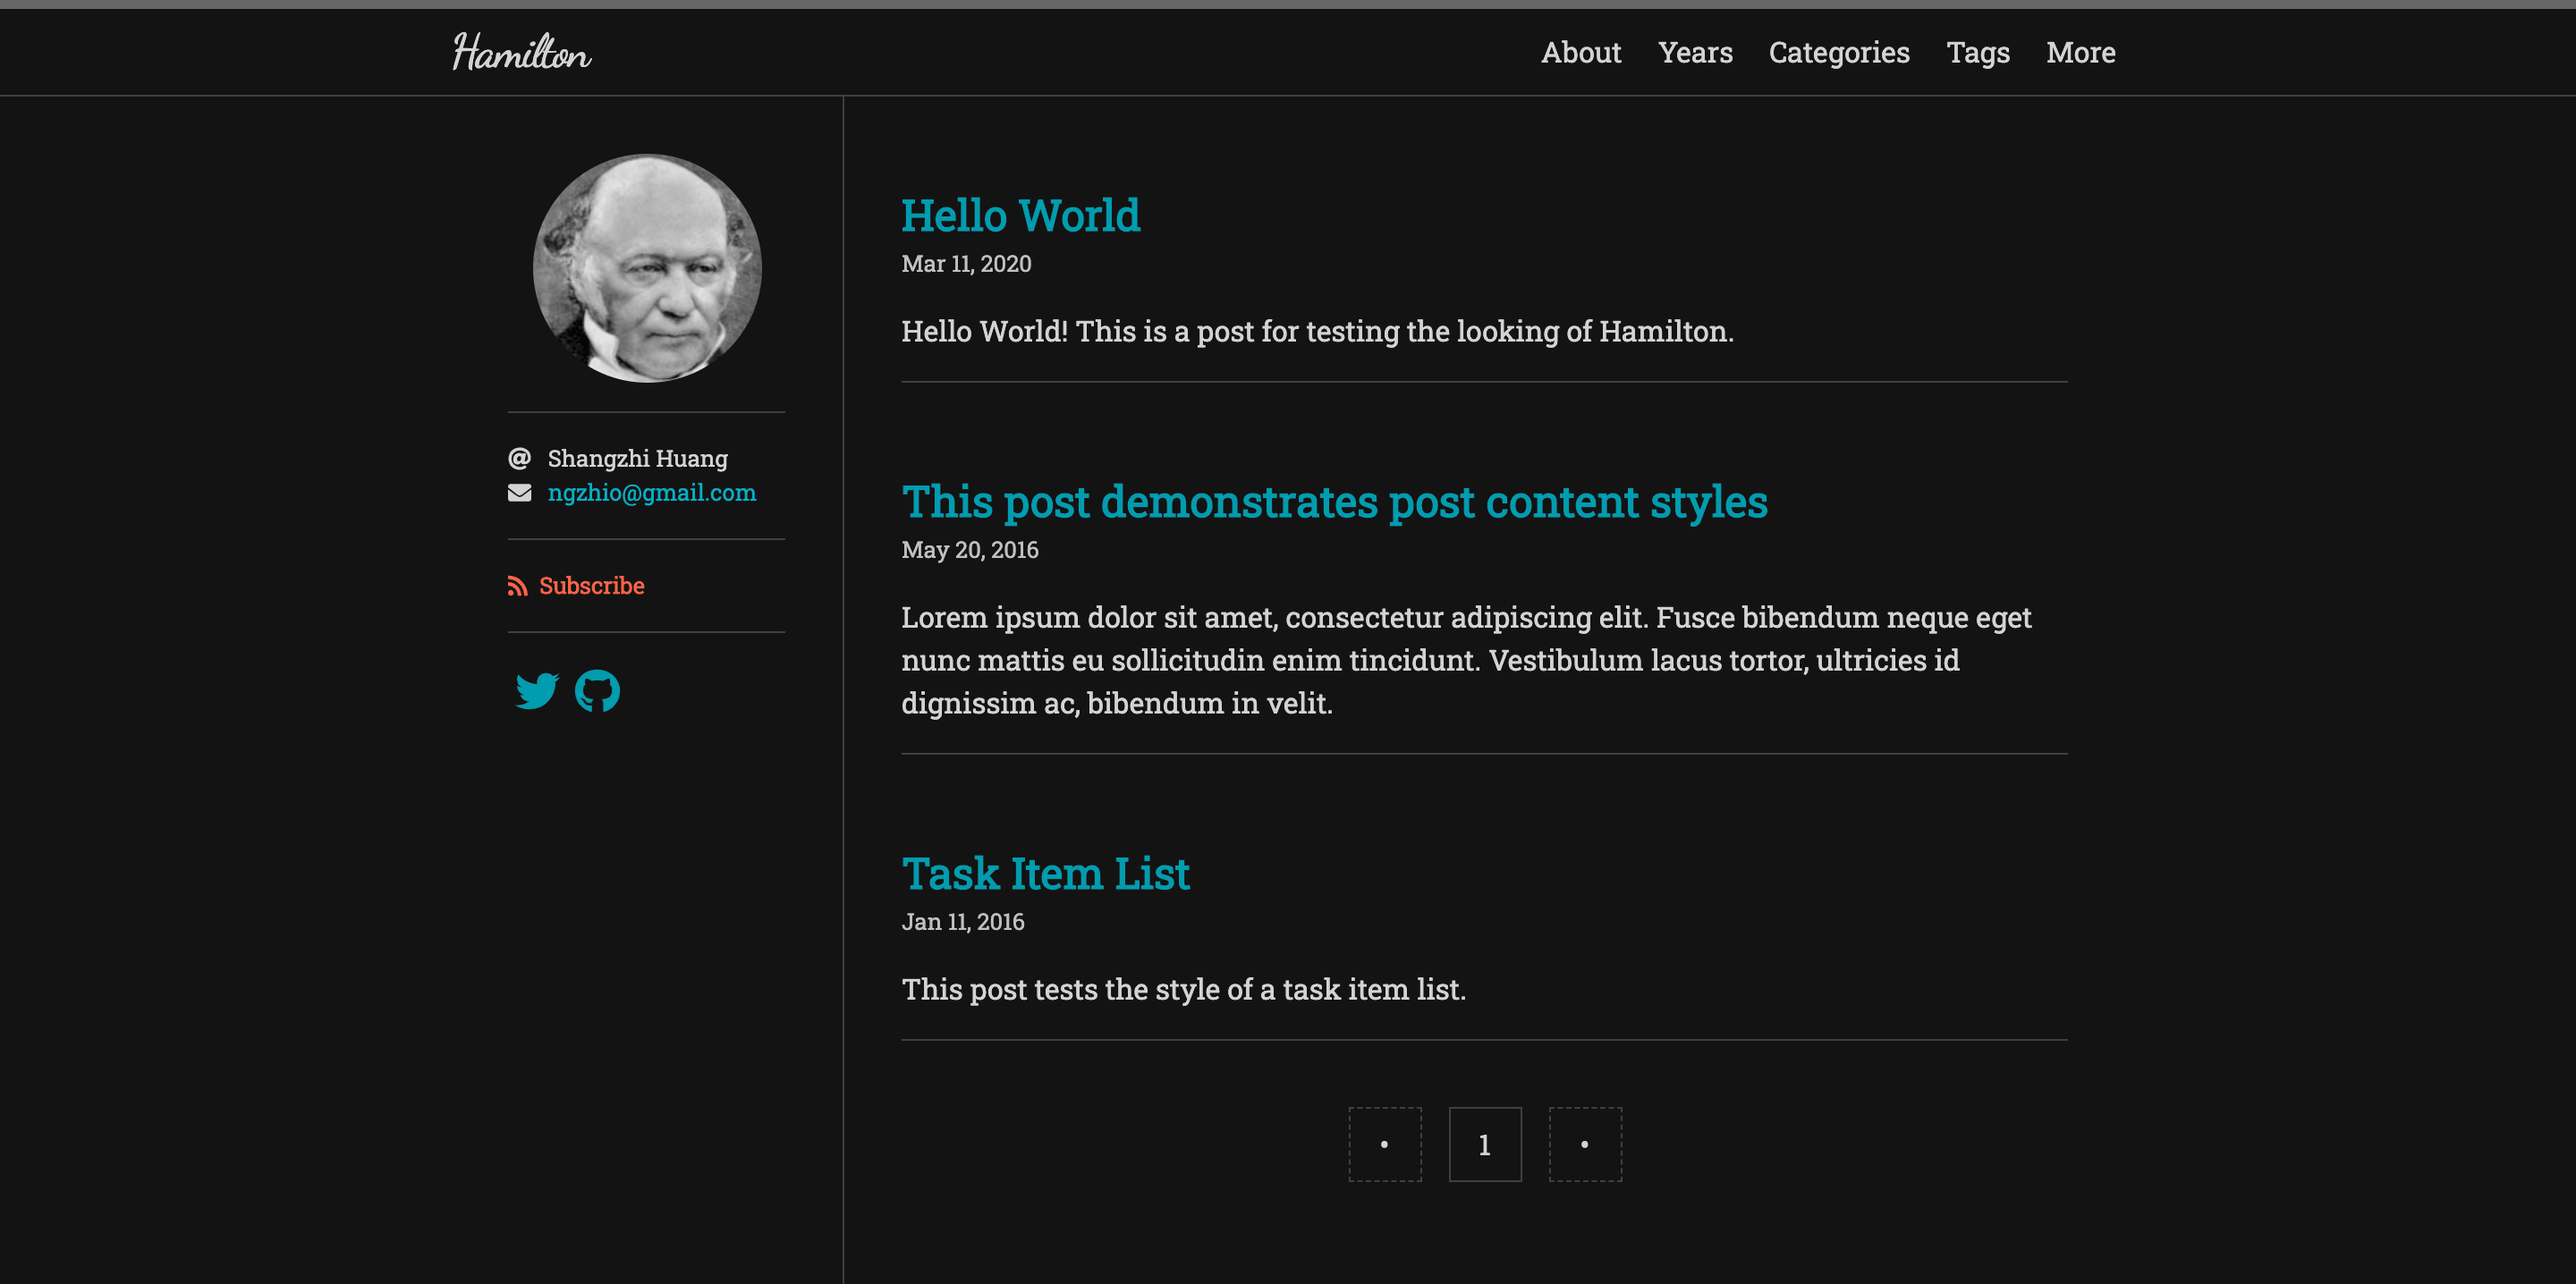
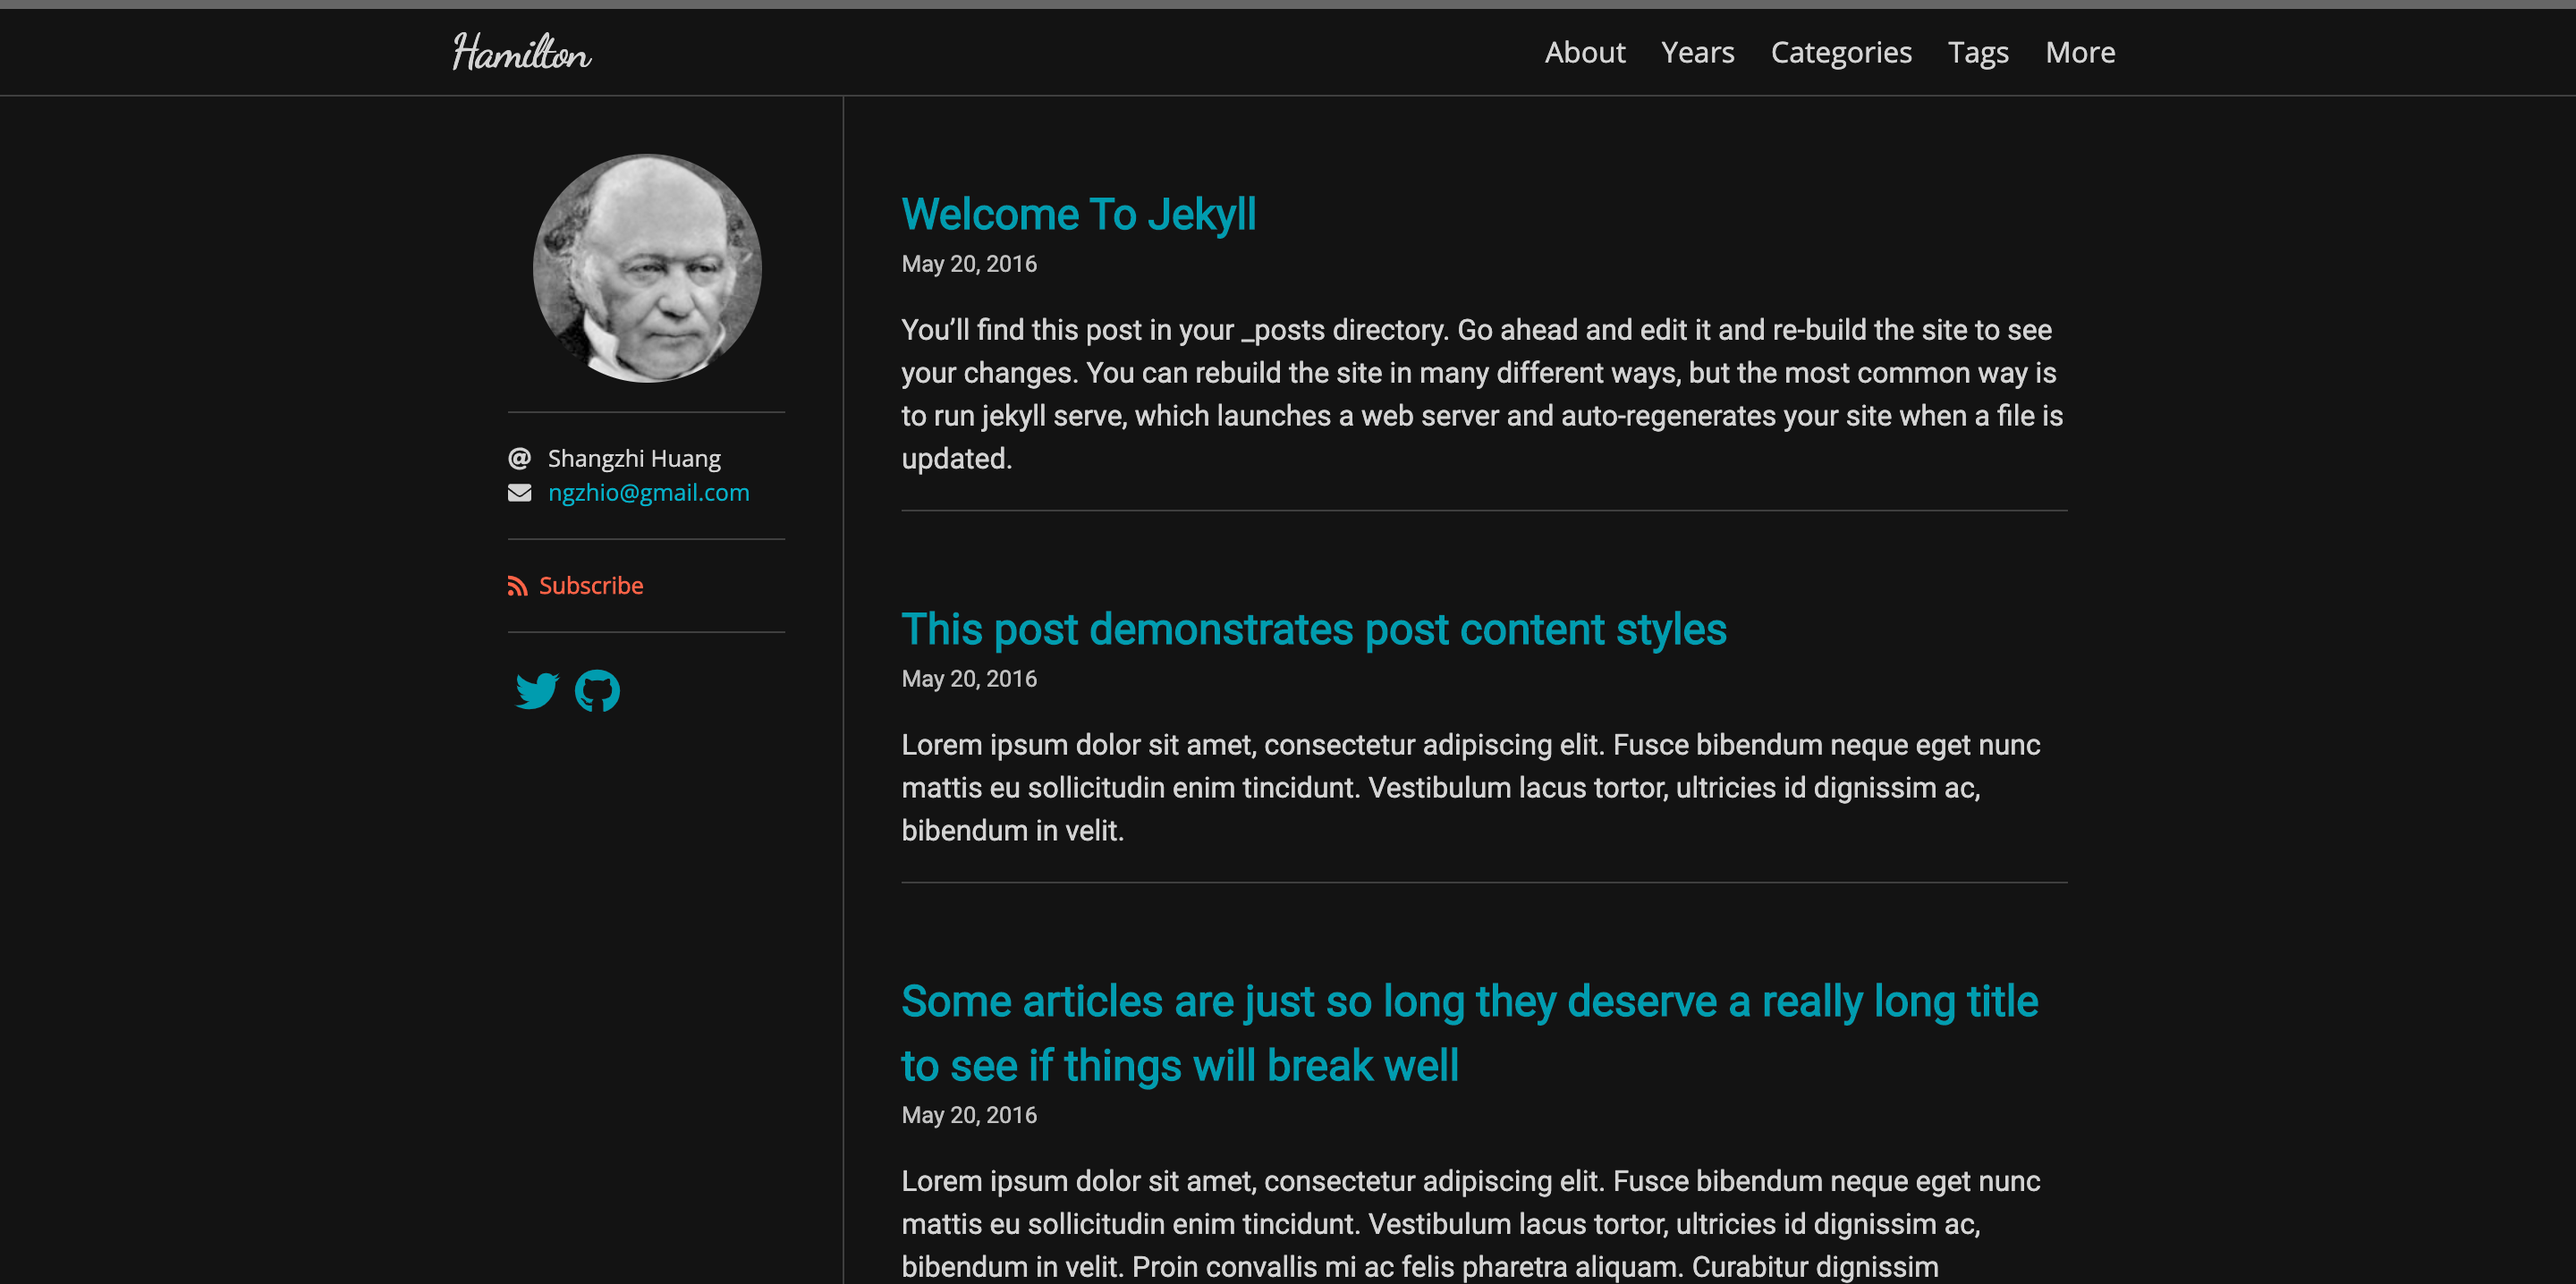
Update screenshots and add some sample posts

diff --git a/_posts/2016-05-20-super-long-article.md b/_posts/2016-05-20-super-long-article.md
@@ -1,0 +1,11 @@
+---
+layout: post
+title: "Some articles are just so long they deserve a really long title to see if things will break well"
+categories: misc
+---
+
+Lorem ipsum dolor sit amet, consectetur adipiscing elit. Fusce bibendum neque eget nunc mattis eu sollicitudin enim tincidunt. Vestibulum lacus tortor, ultricies id dignissim ac, bibendum in velit. Proin convallis mi ac felis pharetra aliquam. Curabitur dignissim accumsan rutrum. In arcu magna, aliquet vel pretium et, molestie et arcu. Mauris lobortis nulla et felis ullamcorper bibendum. Phasellus et hendrerit mauris. Proin eget nibh a massa vestibulum pretium. Suspendisse eu nisl a ante aliquet bibendum quis a nunc. Praesent varius interdum vehicula. Aenean risus libero, placerat at vestibulum eget, ultricies eu enim. Praesent nulla tortor, malesuada adipiscing adipiscing sollicitudin, adipiscing eget est.
+
+Lorem ipsum dolor sit amet, consectetur adipiscing elit. Fusce bibendum neque eget nunc mattis eu sollicitudin enim tincidunt. Vestibulum lacus tortor, ultricies id dignissim ac, bibendum in velit. Proin convallis mi ac felis pharetra aliquam. Curabitur dignissim accumsan rutrum. In arcu magna, aliquet vel pretium et, molestie et arcu. Mauris lobortis nulla et felis ullamcorper bibendum. Phasellus et hendrerit mauris. Proin eget nibh a massa vestibulum pretium. Suspendisse eu nisl a ante aliquet bibendum quis a nunc. Praesent varius interdum vehicula. Aenean risus libero, placerat at vestibulum eget, ultricies eu enim. Praesent nulla tortor, malesuada adipiscing adipiscing sollicitudin, adipiscing eget est.
+
+Lorem ipsum dolor sit amet, consectetur adipiscing elit. Fusce bibendum neque eget nunc mattis eu sollicitudin enim tincidunt. Vestibulum lacus tortor, ultricies id dignissim ac, bibendum in velit. Proin convallis mi ac felis pharetra aliquam. Curabitur dignissim accumsan rutrum. In arcu magna, aliquet vel pretium et, molestie et arcu. Mauris lobortis nulla et felis ullamcorper bibendum. Phasellus et hendrerit mauris. Proin eget nibh a massa vestibulum pretium. Suspendisse eu nisl a ante aliquet bibendum quis a nunc. Praesent varius interdum vehicula. Aenean risus libero, placerat at vestibulum eget, ultricies eu enim. Praesent nulla tortor, malesuada adipiscing adipiscing sollicitudin, adipiscing eget est.

diff --git a/_posts/2016-05-20-welcome-to-jekyll.md b/_posts/2016-05-20-welcome-to-jekyll.md
@@ -1,0 +1,22 @@
+---
+layout: post
+---
+You’ll find this post in your `_posts` directory. Go ahead and edit it and re-build the site to see your changes. You can rebuild the site in many different ways, but the most common way is to run `jekyll serve`, which launches a web server and auto-regenerates your site when a file is updated.
+
+To add new posts, simply add a file in the `_posts` directory that follows the convention `YYYY-MM-DD-name-of-post.ext` and includes the necessary front matter. Take a look at the source for this post to get an idea about how it works.
+
+Jekyll also offers powerful support for code snippets:
+
+{% highlight ruby %}
+def print_hi(name)
+  puts "Hi, #{name}"
+end
+print_hi('Tom')
+#=> prints 'Hi, Tom' to STDOUT.
+{% endhighlight %}
+
+Check out the [Jekyll docs][jekyll-docs] for more info on how to get the most out of Jekyll. File all bugs/feature requests at [Jekyll’s GitHub repo][jekyll-gh]. If you have questions, you can ask them on [Jekyll Talk][jekyll-talk].
+
+[jekyll-docs]: http://jekyllrb.com/docs/home
+[jekyll-gh]:   https://github.com/jekyll/jekyll
+[jekyll-talk]: https://talk.jekyllrb.com/

diff --git a/_posts/2016-05-20-my-example-post.md b/_posts/2016-05-20-my-example-post.md
@@ -1,0 +1,12 @@
+---
+layout: post
+---
+
+Eos eu docendi tractatos sapientem, brute option menandri in vix, quando vivendo accommodare te ius. Nec melius fastidii constituam id, viderer theophrastus ad sit, hinc semper periculis cum id. Noluisse postulant assentior est in, no choro sadipscing repudiandae vix. Vis in euismod delenit dignissim. Ex quod nostrum sit, suas decore animal id ius, nobis solet detracto quo te.
+
+{% comment %}
+Might you have an include in your theme? Why not try it here!
+{% include my-themes-great-include.html %}
+{% endcomment %}
+
+No laudem altera adolescens has, volumus lucilius eum no. Eam ei nulla audiam efficiantur. Suas affert per no, ei tale nibh sea. Sea ne magna harum, in denique scriptorem sea, cetero alienum tibique ei eos. Labores persequeris referrentur eos ei.

diff --git a/_posts/2016-05-19-super-short-article.md b/_posts/2016-05-19-super-short-article.md
@@ -1,0 +1,7 @@
+---
+layout: post
+title: "Some articles are just so short that we have to make the footer stick"
+categories: misc
+---
+
+Lorem ipsum dolor sit amet, consectetur adipisicing elit, sed do eiusmod tempor incididunt ut labore et dolore magna aliqua. Ut enim ad minim veniam, quis nostrud exercitation ullamco laboris nisi ut aliquip ex ea commodo consequat. Duis aute irure dolor in reprehenderit in voluptate velit esse cillum dolore eu fugiat nulla pariatur. Excepteur sint occaecat cupidatat non proident, sunt in culpa qui officia deserunt mollit anim id est laborum.
